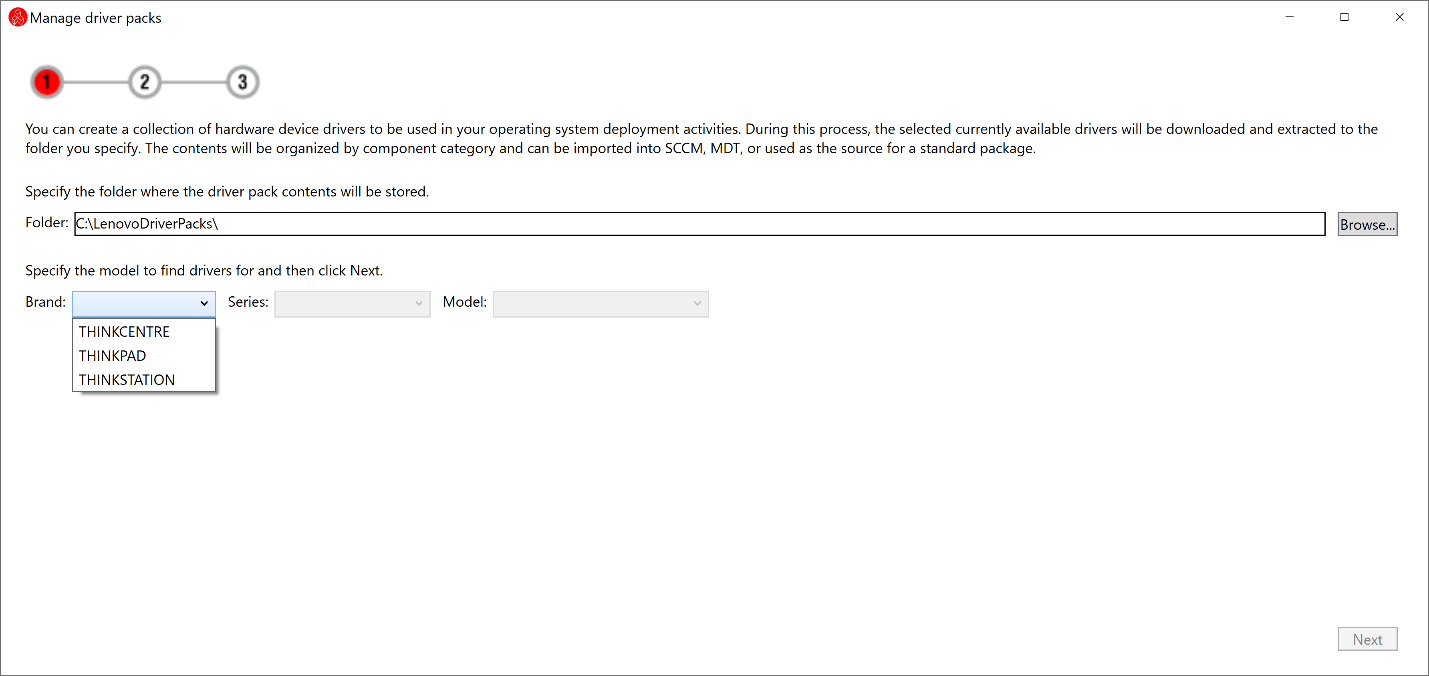
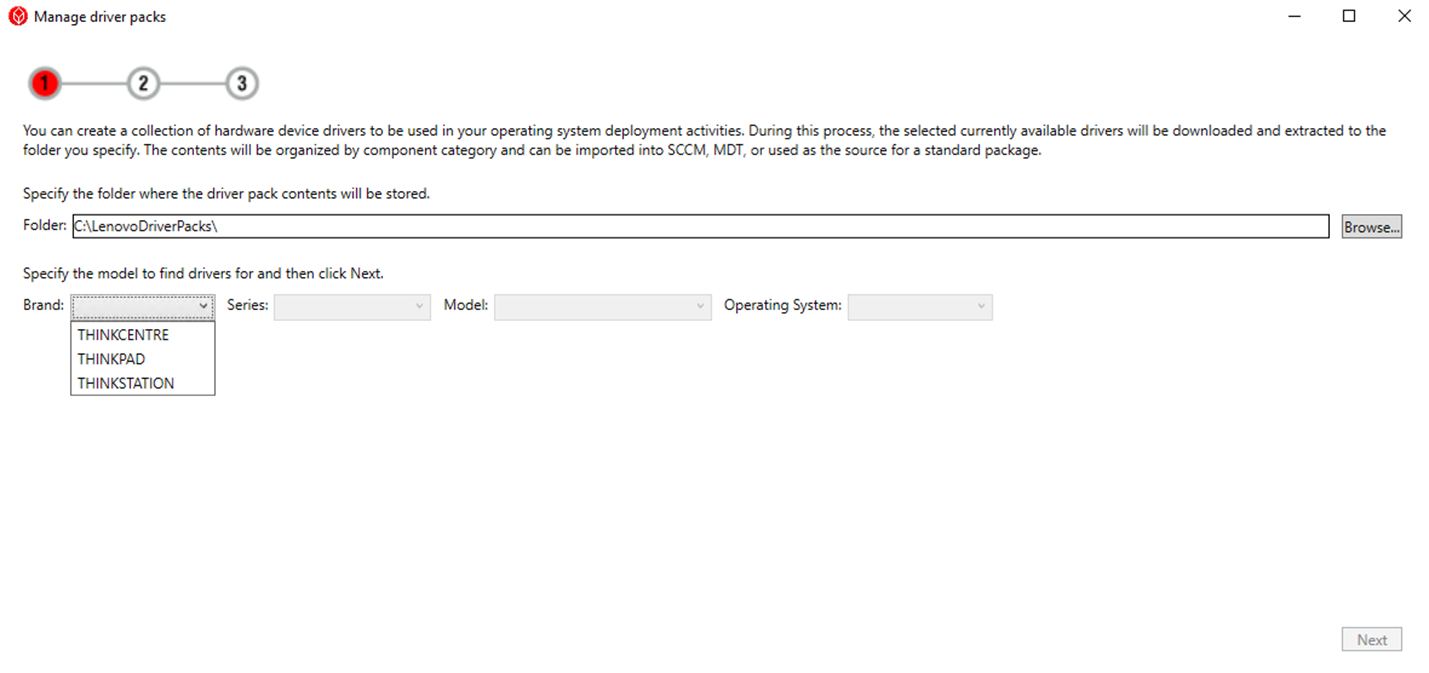
Update - UR Manage Driver Packs
Updated the Manage Driver Packs feature documentation to remove Windows 10 only information, add Windows 10/11 to a statement, update the picture of drop downs, and define this is only for TP, TC, and TS devices.

diff --git a/docs/guides/sus/su_dg/su_dg_ch3.md b/docs/guides/sus/su_dg/su_dg_ch3.md
@@ -471,20 +471,16 @@ This feature allows an admin to create a collection of the hardware drivers for 
 
 This feature displays a list of only hardware drivers for a specified model based on what is currently available on the Lenovo Support web site instead of basing search results on content ready for use with System Update or Thin Installer.
 
-!!! note
-	Only Windows 10 is in scope for this feature.
-
-
 Follow these steps to use the Manage Driver Pack option in Update Retriever:
 
    1. Click the Manage Driver packs tab, in Update Retriever.
-   2. Specify a parent folder to hold &quot;driver packs&quot; generated by Update Retriever. Select a specific model using brand, series and model values that are available in the drop-down list.
+   2. Specify a parent folder to hold &quot;driver packs&quot; generated by Update Retriever. Select a specific model using brand, series, model, and operating system values that are available in the drop-down lists.
 
 	![image](https://cdrt.github.io/mk_docs/img/guides/su/img3-33.png)
 
 	_Figure 3-33. Managing Driver Packs in Update Retriever._
 
-   3. Select specific drivers. Only Windows 10 drivers are supported. Where available, the specific build(s) of Windows 10 supported drivers are listed in the driver title.
+   3. Select specific drivers. Where available, the specific build(s) of Windows 10 / 11 supported drivers are listed in the driver title.
 
 	![image](https://cdrt.github.io/mk_docs/img/guides/su/img3-34.png)
 
@@ -499,7 +495,7 @@ Follow these steps to use the Manage Driver Pack option in Update Retriever:
 A collection of source files for the driver packages are generated, along with a CSV report text file.
 
 !!! note
-	This new feature is intended to support the OS deployment process of new drivers which only works with INF installable hardware drivers. Application updates and firmware updates cannot be included. The feature also only supports ThinkPad, ThinkCentre and ThinkStation PCs launched in 2018 or later.
+	This new feature is intended to support the OS deployment process of new drivers which only works with INF installable hardware drivers. Application updates and firmware updates cannot be included. The feature only supports ThinkPad, ThinkCentre and ThinkStation PCs.
 
 ### 3.3.5 Scheduling the Search for Updates
 
